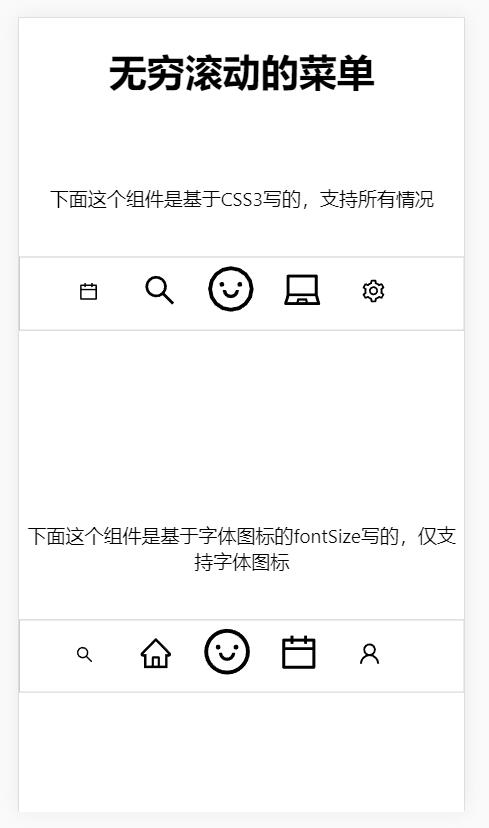
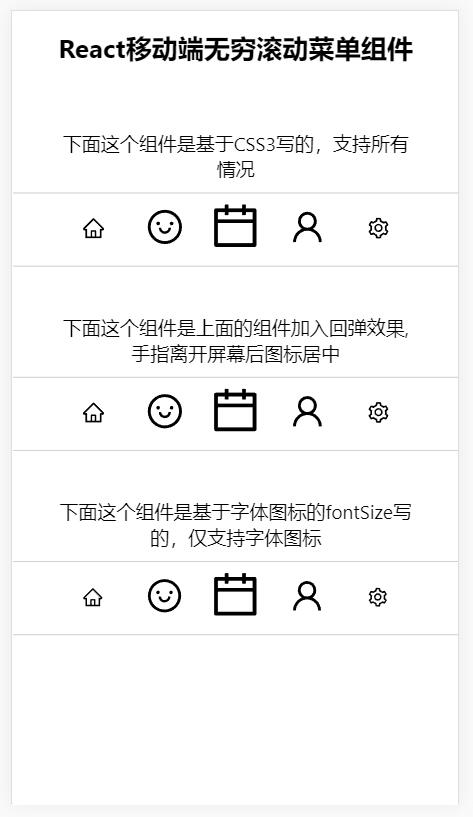
加入回弹效果组件

diff --git a/src/components/bottomButton.center.js b/src/components/bottomButton.center.js
@@ -2,12 +2,10 @@ import React, { Component } from 'react';
 import { Icon } from 'antd';
 
 const bottomButtonWrapStyle = {
-  position: 'fixed',
-  bottom: 100,
-  left: 0,
-  right: 0,
+  position: 'relative',
   backgroundColor: '#fff',
-  border: '1px solid #ccc'
+  borderTop: '1px solid #ccc',
+  borderBottom: '1px solid #ccc'
 };
 
 const bottomButtonStyle = {
@@ -16,6 +14,7 @@ const bottomButtonStyle = {
   margin: '0 10%',
   textAlign: 'center',
   height: 60,
+  fontSize: 40
 };
 
 const iconBoxStyle = {
@@ -28,12 +27,12 @@ const iconBoxStyle = {
 class BottomButton extends Component {
   constructor(props) {
     super(props);
-    this.baseScale = 60;
-    this.baseSize = 40;
+    this.baseScale = 1.4;
     this.start = 0;
     this.now = 0;
     this.width = document.body.clientWidth * 0.8;
     this.center = this.width * 0.4;
+    this.end = false;
     this.state = {
       icon1: 'home',
       icon2: 'smile',
@@ -45,11 +44,11 @@ class BottomButton extends Component {
       left3: this.width * 0.4,
       left4: this.width * 0.6,
       left5: this.width * 0.8,
-      fontSize1: this.baseSize - parseInt(this.baseScale * 0.4),
-      fontSize2: this.baseSize - parseInt(this.baseScale * 0.2),
-      fontSize3: this.baseSize,
-      fontSize4: this.baseSize - parseInt(this.baseScale * 0.2),
-      fontSize5: this.baseSize - parseInt(this.baseScale * 0.4),
+      scale1: 1 - this.baseScale * 0.4,
+      scale2: 1 - this.baseScale * 0.2,
+      scale3: 1,
+      scale4: 1 - this.baseScale * 0.2,
+      scale5: 1 - this.baseScale * 0.4,
     };
     this.icons = ['search', 'delete', 'laptop'];
   }
@@ -79,9 +78,13 @@ class BottomButton extends Component {
       return
     }
 
+    this.now = e.changedTouches[0].clientX;
+
+    this.end = true;
+
     this.handlePositon();
 
-    this.now = e.changedTouches[0].clientX;
+    this.end = false;
   }
 
   handleData = (left, icon) => {
@@ -97,16 +100,20 @@ class BottomButton extends Component {
       this.icons.push(icon);
       icon = this.icons.shift();
     };
-    const fontSize = 40 - parseInt(this.baseScale * Math.abs(left - this.center) / this.width);
-    return { left, fontSize, icon };
+    
+    if(this.end) left = this.handleCenter(left);
+
+    const scale = 1 - this.baseScale * Math.abs(left - this.center) / this.width;
+
+    return { left, scale, icon };
   }
 
   handlePositon = () => {
-    const { left: left1, fontSize: fontSize1, icon: icon1 } = this.handleData(this.state.left1, this.state.icon1);
-    const { left: left2, fontSize: fontSize2, icon: icon2 } = this.handleData(this.state.left2, this.state.icon2);
-    const { left: left3, fontSize: fontSize3, icon: icon3 } = this.handleData(this.state.left3, this.state.icon3);
-    const { left: left4, fontSize: fontSize4, icon: icon4 } = this.handleData(this.state.left4, this.state.icon4);
-    const { left: left5, fontSize: fontSize5, icon: icon5 } = this.handleData(this.state.left5, this.state.icon5);
+    const { left: left1, scale: scale1, icon: icon1 } = this.handleData(this.state.left1, this.state.icon1);
+    const { left: left2, scale: scale2, icon: icon2 } = this.handleData(this.state.left2, this.state.icon2);
+    const { left: left3, scale: scale3, icon: icon3 } = this.handleData(this.state.left3, this.state.icon3);
+    const { left: left4, scale: scale4, icon: icon4 } = this.handleData(this.state.left4, this.state.icon4);
+    const { left: left5, scale: scale5, icon: icon5 } = this.handleData(this.state.left5, this.state.icon5);
 
     this.setState({
       left1,
@@ -114,17 +121,30 @@ class BottomButton extends Component {
       left3,
       left4,
       left5,
-      fontSize1,
-      fontSize2,
-      fontSize3,
-      fontSize4,
-      fontSize5,
+      scale1,
+      scale2,
+      scale3,
+      scale4,
+      scale5,
       icon1,
       icon2,
       icon3,
       icon4,
       icon5,
     })
+  }
+
+  handleCenter = left => {
+    let baseWidth = this.width * 0.2
+    let ratio = left / baseWidth
+    let ratioInt = parseInt(ratio)
+    let remainder = ratio - ratioInt
+    if (remainder < 0.5) {
+      left = ratioInt * baseWidth
+    } else {
+      left = (ratioInt + 1) * baseWidth
+    }
+    return left
   }
 
   render() {
@@ -136,19 +156,19 @@ class BottomButton extends Component {
         style={bottomButtonWrapStyle}
       >
         <div className="bottomButton" style={bottomButtonStyle}>
-          <div style={{...iconBoxStyle,  left: this.state.left1, fontSize: this.state.fontSize1 }}>
+          <div style={{ ...iconBoxStyle, left: this.state.left1, transform: `scale(${this.state.scale1},${this.state.scale1})` }}>
             <Icon type={this.state.icon1} theme="outlined" />
           </div>
-          <div style={{ ...iconBoxStyle, left: this.state.left2, fontSize: this.state.fontSize2 }}>
+          <div style={{ ...iconBoxStyle, left: this.state.left2, transform: `scale(${this.state.scale2},${this.state.scale2})` }}>
             <Icon type={this.state.icon2} theme="outlined" />
           </div>
-          <div style={{ ...iconBoxStyle, left: this.state.left3, fontSize: this.state.fontSize3 }}>
+          <div style={{ ...iconBoxStyle, left: this.state.left3, transform: `scale(${this.state.scale3},${this.state.scale3})` }}>
             <Icon type={this.state.icon3} theme="outlined" />
           </div>
-          <div style={{ ...iconBoxStyle, left: this.state.left4, fontSize: this.state.fontSize4 }}>
+          <div style={{ ...iconBoxStyle, left: this.state.left4, transform: `scale(${this.state.scale4},${this.state.scale4})` }}>
             <Icon type={this.state.icon4} theme="outlined" />
           </div>
-          <div style={{ ...iconBoxStyle, left: this.state.left5, fontSize: this.state.fontSize5 }}>
+          <div style={{ ...iconBoxStyle, left: this.state.left5, transform: `scale(${this.state.scale5},${this.state.scale5})` }}>
             <Icon type={this.state.icon5} theme="outlined" />
           </div>
         </div>

diff --git a/src/components/bottomButton.fontsize.js b/src/components/bottomButton.fontsize.js
@@ -14,7 +14,6 @@ const bottomButtonStyle = {
   margin: '0 10%',
   textAlign: 'center',
   height: 60,
-  fontSize: 40
 };
 
 const iconBoxStyle = {
@@ -27,7 +26,8 @@ const iconBoxStyle = {
 class BottomButton extends Component {
   constructor(props) {
     super(props);
-    this.baseScale = 1.4;
+    this.baseScale = 60;
+    this.baseSize = 40;
     this.start = 0;
     this.now = 0;
     this.width = document.body.clientWidth * 0.8;
@@ -43,11 +43,11 @@ class BottomButton extends Component {
       left3: this.width * 0.4,
       left4: this.width * 0.6,
       left5: this.width * 0.8,
-      scale1: 1 - this.baseScale * 0.4,
-      scale2: 1 - this.baseScale * 0.2,
-      scale3: 1,
-      scale4: 1 - this.baseScale * 0.2,
-      scale5: 1 - this.baseScale * 0.4,
+      fontSize1: this.baseSize - parseInt(this.baseScale * 0.4),
+      fontSize2: this.baseSize - parseInt(this.baseScale * 0.2),
+      fontSize3: this.baseSize,
+      fontSize4: this.baseSize - parseInt(this.baseScale * 0.2),
+      fontSize5: this.baseSize - parseInt(this.baseScale * 0.4),
     };
     this.icons = ['search', 'delete', 'laptop'];
   }
@@ -95,16 +95,16 @@ class BottomButton extends Component {
       this.icons.push(icon);
       icon = this.icons.shift();
     };
-    const scale = 1 - this.baseScale * Math.abs(left - this.center) / this.width;
-    return { left, scale, icon };
+    const fontSize = 40 - parseInt(this.baseScale * Math.abs(left - this.center) / this.width);
+    return { left, fontSize, icon };
   }
 
   handlePositon = () => {
-    const { left: left1, scale: scale1, icon: icon1 } = this.handleData(this.state.left1, this.state.icon1);
-    const { left: left2, scale: scale2, icon: icon2 } = this.handleData(this.state.left2, this.state.icon2);
-    const { left: left3, scale: scale3, icon: icon3 } = this.handleData(this.state.left3, this.state.icon3);
-    const { left: left4, scale: scale4, icon: icon4 } = this.handleData(this.state.left4, this.state.icon4);
-    const { left: left5, scale: scale5, icon: icon5 } = this.handleData(this.state.left5, this.state.icon5);
+    const { left: left1, fontSize: fontSize1, icon: icon1 } = this.handleData(this.state.left1, this.state.icon1);
+    const { left: left2, fontSize: fontSize2, icon: icon2 } = this.handleData(this.state.left2, this.state.icon2);
+    const { left: left3, fontSize: fontSize3, icon: icon3 } = this.handleData(this.state.left3, this.state.icon3);
+    const { left: left4, fontSize: fontSize4, icon: icon4 } = this.handleData(this.state.left4, this.state.icon4);
+    const { left: left5, fontSize: fontSize5, icon: icon5 } = this.handleData(this.state.left5, this.state.icon5);
 
     this.setState({
       left1,
@@ -112,11 +112,11 @@ class BottomButton extends Component {
       left3,
       left4,
       left5,
-      scale1,
-      scale2,
-      scale3,
-      scale4,
-      scale5,
+      fontSize1,
+      fontSize2,
+      fontSize3,
+      fontSize4,
+      fontSize5,
       icon1,
       icon2,
       icon3,
@@ -134,19 +134,19 @@ class BottomButton extends Component {
         style={bottomButtonWrapStyle}
       >
         <div className="bottomButton" style={bottomButtonStyle}>
-          <div style={{ ...iconBoxStyle, left: this.state.left1, transform: `scale(${this.state.scale1},${this.state.scale1})` }}>
+          <div style={{...iconBoxStyle,  left: this.state.left1, fontSize: this.state.fontSize1 }}>
             <Icon type={this.state.icon1} theme="outlined" />
           </div>
-          <div style={{ ...iconBoxStyle, left: this.state.left2, transform: `scale(${this.state.scale2},${this.state.scale2})` }}>
+          <div style={{ ...iconBoxStyle, left: this.state.left2, fontSize: this.state.fontSize2 }}>
             <Icon type={this.state.icon2} theme="outlined" />
           </div>
-          <div style={{ ...iconBoxStyle, left: this.state.left3, transform: `scale(${this.state.scale3},${this.state.scale3})` }}>
+          <div style={{ ...iconBoxStyle, left: this.state.left3, fontSize: this.state.fontSize3 }}>
             <Icon type={this.state.icon3} theme="outlined" />
           </div>
-          <div style={{ ...iconBoxStyle, left: this.state.left4, transform: `scale(${this.state.scale4},${this.state.scale4})` }}>
+          <div style={{ ...iconBoxStyle, left: this.state.left4, fontSize: this.state.fontSize4 }}>
             <Icon type={this.state.icon4} theme="outlined" />
           </div>
-          <div style={{ ...iconBoxStyle, left: this.state.left5, transform: `scale(${this.state.scale5},${this.state.scale5})` }}>
+          <div style={{ ...iconBoxStyle, left: this.state.left5, fontSize: this.state.fontSize5 }}>
             <Icon type={this.state.icon5} theme="outlined" />
           </div>
         </div>

diff --git a/src/App.js b/src/App.js
@@ -1,31 +1,24 @@
 import React, { Component } from 'react';
 import './App.css';
-import BottomButton from './components/bottomButton'
-import BottomButton2 from './components/bottomButton.scale'
+import BottomButton1 from './components/bottomButton.scale'
+import BottomButton2 from './components/bottomButton.center'
+import BottomButton3 from './components/bottomButton.fontsize'
 
-const div1 = {
-  position: 'fixed',
-  top: 140,
-  left: 0,
-  right: 0,
-};
-
-const div2 = {
-  position: 'fixed',
-  bottom: 200,
-  left: 0,
-  right: 0,
+const divStyle = {
+  padding: '40px 10% 10px'
 };
 
 class App extends Component {
   render() {
     return (
       <div className="App">
-        <h1>无穷滚动的菜单</h1>
-        <div style={div1}>下面这个组件是基于CSS3写的，支持所有情况</div>
-        <BottomButton />
-        <div style={div2}>下面这个组件是基于字体图标的fontSize写的，仅支持字体图标</div>
+        <h1>React移动端无穷滚动菜单组件</h1>
+        <div style={divStyle}>下面这个组件是基于CSS3写的，支持所有情况</div>
+        <BottomButton1 />
+        <div style={divStyle}>下面这个组件是上面的组件加入回弹效果,手指离开屏幕后图标居中</div>
         <BottomButton2 />
+        <div style={divStyle}>下面这个组件是基于字体图标的fontSize写的，仅支持字体图标</div>
+        <BottomButton3 />
       </div>
     );
   }

diff --git a/src/App.css b/src/App.css
@@ -30,3 +30,7 @@
     transform: rotate(360deg);
   }
 }
+
+h1 {
+  font-size: 22px;
+}

diff --git a/README.md b/README.md
@@ -11,7 +11,7 @@
 > yarn start  
 
 ## DEMO  
-
+PC上查看效果必须切换到手机模式
 > [demo](https://fuxingzhang.github.io/ReactScrollTabBar/)
 
 ## 效果图
